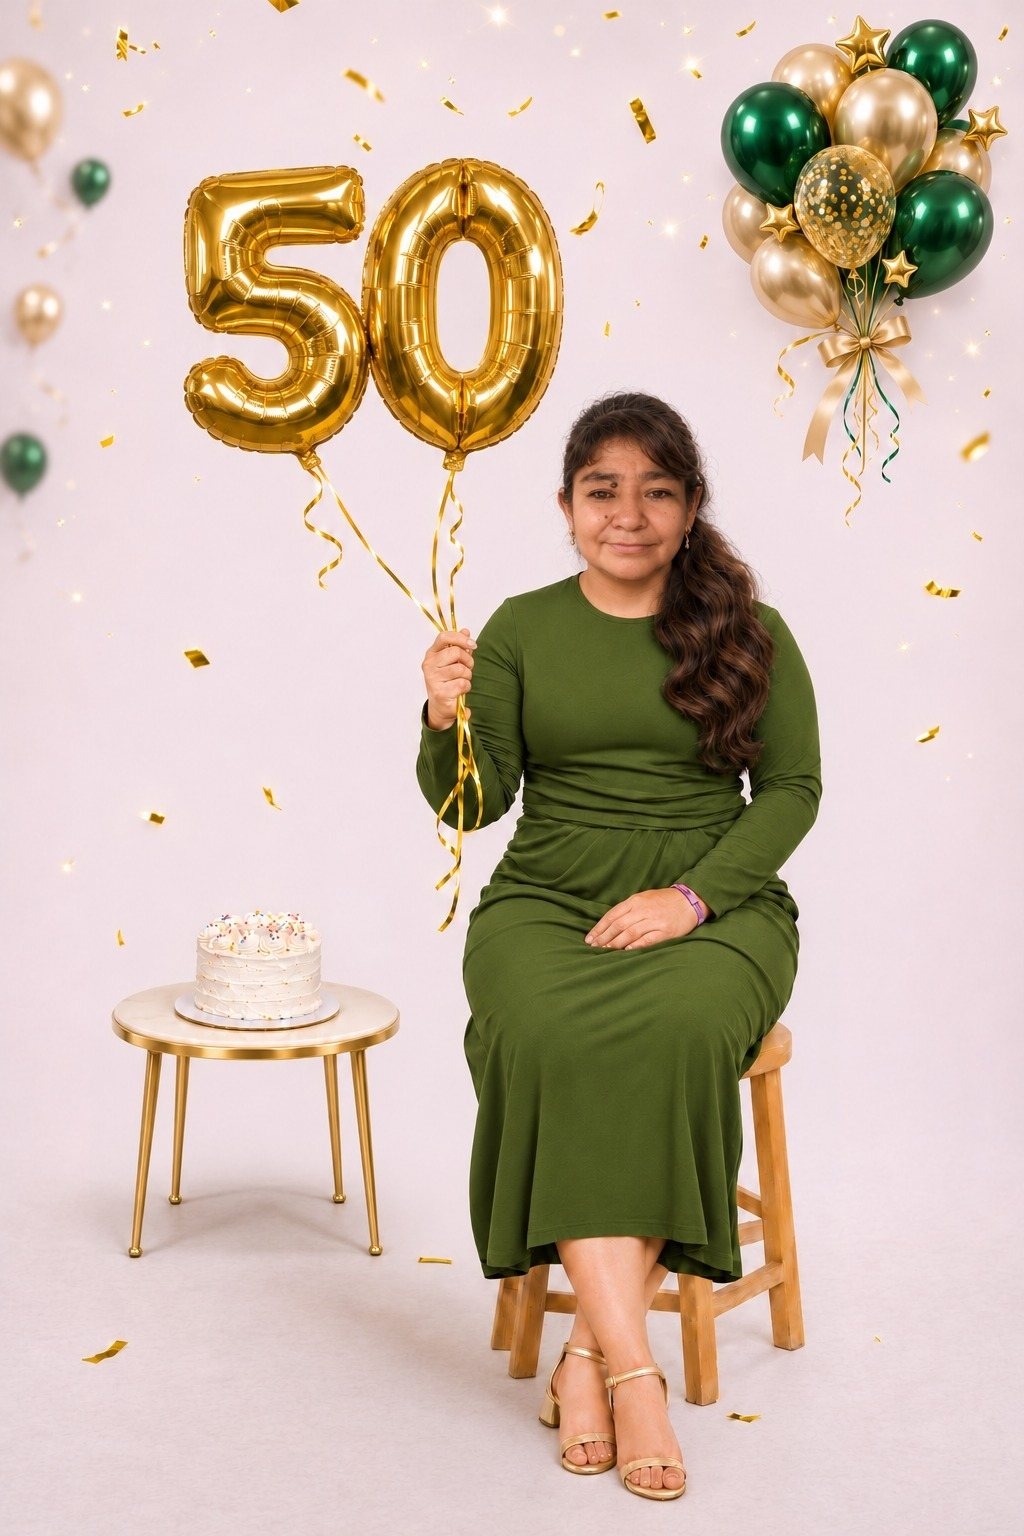
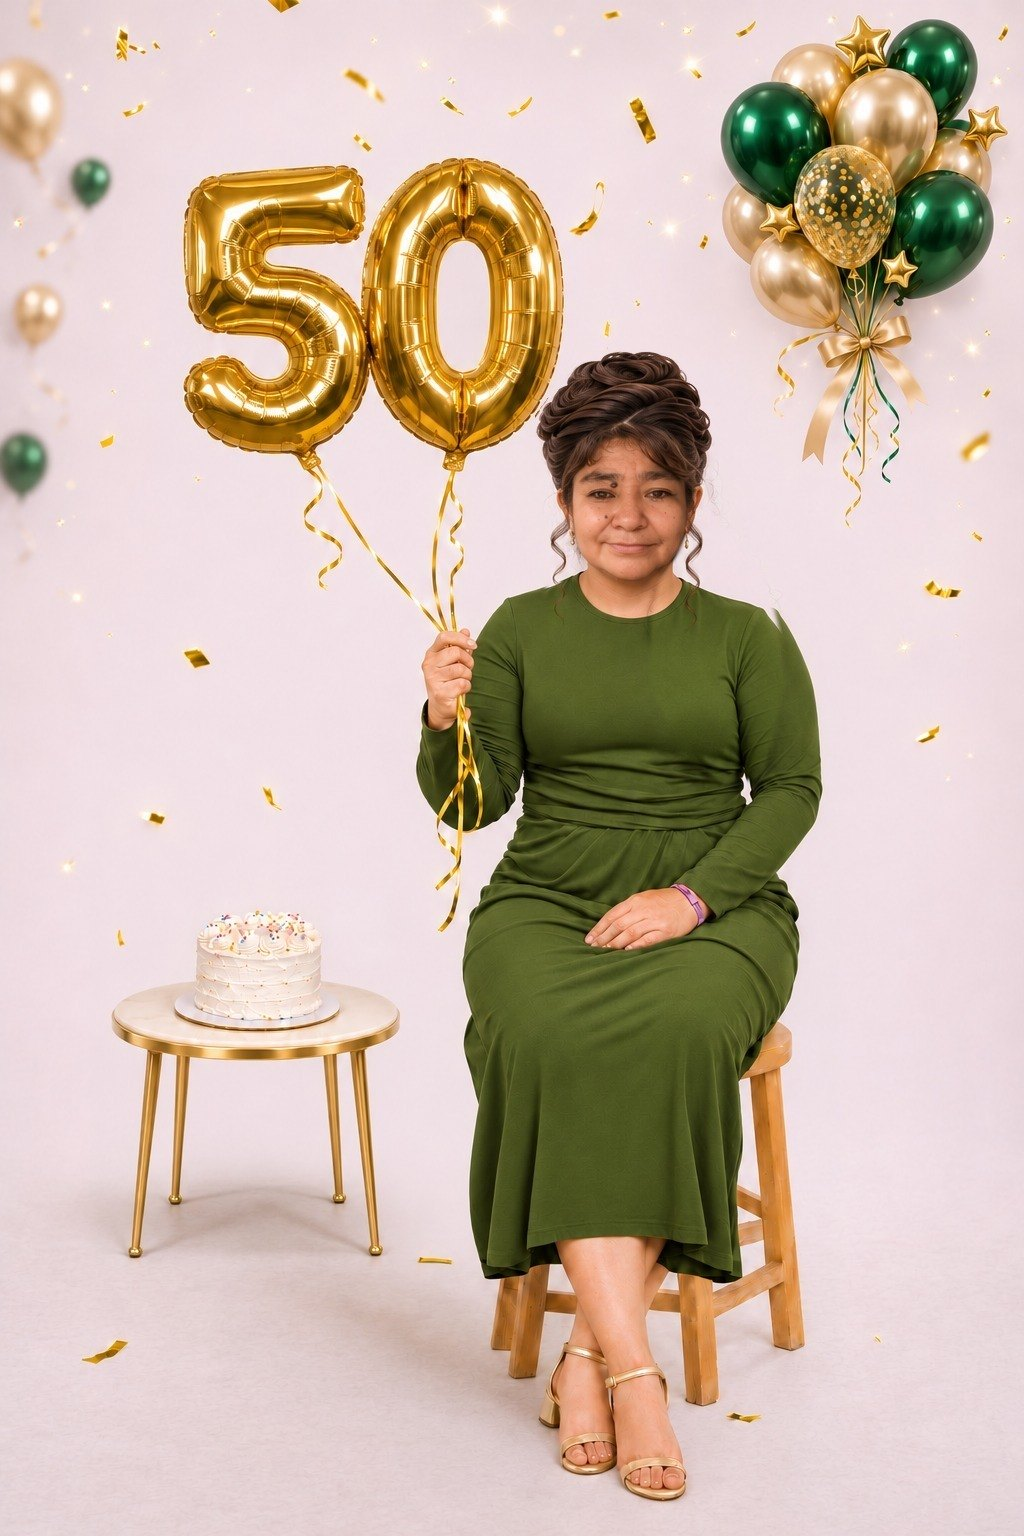
Nueva foto de portada

Changed region(s): [[0.5, 0.2188, 0.7812, 0.5312]]

diff --git a/web/index.html b/web/index.html
@@ -35,13 +35,13 @@ input,textarea,button{font-family:'Cormorant Garamond',Georgia,serif}
 @supports (animation-timeline:view()){.revela,.rev-izq,.rev-der,.rev-zoom,.rev-fade{animation:aparecer linear both;animation-timeline:view();animation-range:entry 0% cover 30%}.rev-izq{animation-name:izq}.rev-der{animation-name:der}.rev-zoom{animation-name:zoom}.rev-fade{animation-name:fundido}}
 nav a{color:#3F5226;text-decoration:none}
 .lino-oscuro{background-color:#56663D;background-image:url(/a/86ca6db8fe728776d4360789e4caac66.jpg?v=b0bd263b);background-size:320px 320px;background-blend-mode:multiply}
-.lino{background-color:#E4EBD6;background-image:url(/a/86ca6db8fe728776d4360789e4caac66.jpg?v=b0bd263b);background-size:320px 320px}.foto-arco{background:#EDE4E8 url(/a/5a4fbaf4dd6b78b2e6eda0e233e9d879.jpg?v=981253dc) 70% 0/cover no-repeat}.velo-lino{background:radial-gradient(ellipse 75% 60% at 50% 45%, rgba(228,235,214,0) 55%, rgba(110,125,67,0.28) 100%), linear-gradient(180deg, rgba(214,226,190,0.18), rgba(214,226,190,0) 40%, rgba(63,82,38,0.12)), url(/a/86ca6db8fe728776d4360789e4caac66.jpg?v=b0bd263b);background-size:auto, auto, 320px 320px;mix-blend-mode:multiply;opacity:.9}.bp{transform-box:fill-box;transform-origin:50% 50%}.carta-espera .bp{opacity:0}.carta-entra .bp{animation:florBrota .9s cubic-bezier(.3,1.5,.5,1) both}@media (prefers-reduced-motion:reduce){.carta-entra .bp{animation:none}}
+.lino{background-color:#E4EBD6;background-image:url(/a/86ca6db8fe728776d4360789e4caac66.jpg?v=b0bd263b);background-size:320px 320px}.foto-arco{background:#EDE4E8 url(/a/5a4fbaf4dd6b78b2e6eda0e233e9d879.jpg?v=4c55bd5e) 70% 0/cover no-repeat}.velo-lino{background:radial-gradient(ellipse 75% 60% at 50% 45%, rgba(228,235,214,0) 55%, rgba(110,125,67,0.28) 100%), linear-gradient(180deg, rgba(214,226,190,0.18), rgba(214,226,190,0) 40%, rgba(63,82,38,0.12)), url(/a/86ca6db8fe728776d4360789e4caac66.jpg?v=b0bd263b);background-size:auto, auto, 320px 320px;mix-blend-mode:multiply;opacity:.9}.bp{transform-box:fill-box;transform-origin:50% 50%}.carta-espera .bp{opacity:0}.carta-entra .bp{animation:florBrota .9s cubic-bezier(.3,1.5,.5,1) both}@media (prefers-reduced-motion:reduce){.carta-entra .bp{animation:none}}
 .aguarda.final:not(.visto) .fin-adorno,.aguarda.final:not(.visto) .fin-texto,.aguarda.final:not(.visto) .fin-firma{opacity:0}.visto .fin-adorno{animation:finAdorno 1.2s cubic-bezier(.2,.8,.2,1) both}.visto .fin-texto{animation:finEscribe 2.4s ease-in-out .8s both}.visto .fin-firma{animation:finFirma 1.2s ease 3s both}@keyframes finAdorno{0%{opacity:0;transform:scaleX(0)}60%{opacity:1}100%{opacity:1;transform:none}}@keyframes finEscribe{0%{opacity:1;clip-path:inset(-30% 100% -30% -5%)}100%{opacity:1;clip-path:inset(-30% -5% -30% -5%)}}@keyframes finFirma{0%{opacity:0;letter-spacing:0px;transform:translateY(8px)}100%{opacity:1;letter-spacing:3px;transform:none}}
-.fx-retrato-1{background:#E2EBD1 url(/a/5a4fbaf4dd6b78b2e6eda0e233e9d879.jpg?v=981253dc) 62% 30%/cover no-repeat}.fx-retrato-2{background:#E2EBD1 url(/a/46a35271e1f8f4635ab8116474f4c852.jpg?v=594c8c74) 50% 55%/cover no-repeat}.fx-fiestas-1{background:#E2EBD1 url(/a/2ff35ff0b052922acf2b713d649677f9.jpg?v=2603985a) 40% 60%/cover no-repeat}.fx-fiestas-2{background:#E2EBD1 url(/a/ff19bab2dead28219ffa426869fc8c3f.jpg?v=9d9b80e8) 62% 35%/cover no-repeat}.fx-paseos-1{background:#E2EBD1 url(/a/8bb4ffcb68ecab3eef8ad752dfeda33f.jpg?v=12c1ada5) 45% 45%/cover no-repeat}.fx-paseos-2{background:#E2EBD1 url(/a/4cea7a499eb1de9508cb81ac883d3650.jpg?v=75e8a4cc) 50% 50%/cover no-repeat}.fx-familia-1{background:#E2EBD1 url(/a/14ddda6ddf706641b2d74b41ed4114e3.jpg?v=0ac4fea0) 50% 45%/cover no-repeat}.fx-familia-2{background:#E2EBD1 url(/a/8dcd2b1b9bbca58d64b64d08a1f6bc49.jpg?v=5ff40ac6) 55% 50%/cover no-repeat}.fx-hoy-1{background:#E2EBD1 url(/a/57852b1e024459e83e522314bd49c412.jpg?v=6d905cd3) 55% 30%/cover no-repeat}.fx-hoy-2{background:#E2EBD1 url(/a/d4f144a312145dab0865a553e8d03b00.jpg?v=ef53e685) 55% 30%/cover no-repeat}.carrusel::-webkit-scrollbar{display:none}
+.fx-retrato-1{background:#E2EBD1 url(/a/5a4fbaf4dd6b78b2e6eda0e233e9d879.jpg?v=4c55bd5e) 62% 30%/cover no-repeat}.fx-retrato-2{background:#E2EBD1 url(/a/46a35271e1f8f4635ab8116474f4c852.jpg?v=594c8c74) 50% 55%/cover no-repeat}.fx-fiestas-1{background:#E2EBD1 url(/a/2ff35ff0b052922acf2b713d649677f9.jpg?v=2603985a) 40% 60%/cover no-repeat}.fx-fiestas-2{background:#E2EBD1 url(/a/ff19bab2dead28219ffa426869fc8c3f.jpg?v=9d9b80e8) 62% 35%/cover no-repeat}.fx-paseos-1{background:#E2EBD1 url(/a/8bb4ffcb68ecab3eef8ad752dfeda33f.jpg?v=12c1ada5) 45% 45%/cover no-repeat}.fx-paseos-2{background:#E2EBD1 url(/a/4cea7a499eb1de9508cb81ac883d3650.jpg?v=75e8a4cc) 50% 50%/cover no-repeat}.fx-familia-1{background:#E2EBD1 url(/a/14ddda6ddf706641b2d74b41ed4114e3.jpg?v=0ac4fea0) 50% 45%/cover no-repeat}.fx-familia-2{background:#E2EBD1 url(/a/8dcd2b1b9bbca58d64b64d08a1f6bc49.jpg?v=5ff40ac6) 55% 50%/cover no-repeat}.fx-hoy-1{background:#E2EBD1 url(/a/57852b1e024459e83e522314bd49c412.jpg?v=6d905cd3) 55% 30%/cover no-repeat}.fx-hoy-2{background:#E2EBD1 url(/a/d4f144a312145dab0865a553e8d03b00.jpg?v=ef53e685) 55% 30%/cover no-repeat}.carrusel::-webkit-scrollbar{display:none}
 
 .flor-p,.hoja-p,.perla-p{transform-box:fill-box;transform-origin:50% 50%}.flor-p{animation:florBrota 1s cubic-bezier(.3,1.5,.5,1) both}.hoja-p{animation:hojaBrota .9s cubic-bezier(.3,1.4,.5,1) both}.perla-p{animation:perla .5s cubic-bezier(.3,1.6,.5,1) both}@keyframes florBrota{0%{opacity:0;transform:scale(0) rotate(-60deg)}45%{opacity:1}100%{opacity:1;transform:none}}@keyframes hojaBrota{0%{opacity:0;transform:scale(0) rotate(25deg)}50%{opacity:1}100%{opacity:1;transform:none}}@media (prefers-reduced-motion:reduce){.flor-p,.hoja-p,.perla-p{animation:none}}
 .cortina{transform-box:fill-box;transform-origin:0% 50%;transform:scaleX(.8)}.carta-espera .cortina{transform:scaleX(1.24)}.carta-entra .cortina{animation:abrirCortina 2.4s cubic-bezier(.55,0,.2,1) 3.3s both}@keyframes abrirCortina{0%{transform:scaleX(1.24)}72%{transform:scaleX(.76)}86%{transform:scaleX(.83)}100%{transform:scaleX(.8)}}@media (prefers-reduced-motion:reduce){.carta-entra .cortina{animation:none}}
-.foto-portada{background:#3B4A27 url(/a/5a4fbaf4dd6b78b2e6eda0e233e9d879.jpg?v=981253dc) 20% 0/cover no-repeat}
+.foto-portada{background:#3B4A27 url(/a/5a4fbaf4dd6b78b2e6eda0e233e9d879.jpg?v=4c55bd5e) 20% 0/cover no-repeat}
 .aguarda.flores:not(.visto) .brota,.aguarda.flores:not(.visto) .brota-perla{opacity:0}.brota,.brota-perla{transform-box:fill-box;transform-origin:50% 60%}.visto .brota{animation:brote .9s cubic-bezier(.3,1.4,.5,1) both}.visto .brota-perla{animation:perla .5s cubic-bezier(.3,1.6,.5,1) both}@keyframes brote{0%{opacity:0;transform:scale(0) rotate(-40deg)}40%{opacity:1}100%{opacity:1;transform:none}}@keyframes perla{0%{opacity:0;transform:scale(0)}100%{opacity:1;transform:none}}.letras .pal{display:inline-block;white-space:nowrap}.letras .pal span{display:inline-block}.aguarda.letras:not(.visto) .pal span{opacity:0}.visto.letras .pal span{animation:pluma .5s ease-out both}@keyframes pluma{0%{opacity:0;filter:blur(3px);transform:translateY(-5px)}100%{opacity:1;filter:none;transform:none}}.aguarda.tras-verso:not(.visto){opacity:0}.visto.tras-verso{animation:fundido 1s ease both}.aguarda.sello:not(.visto) .cera,.onda{opacity:0}.cera,.onda{transform-box:fill-box;transform-origin:50% 50%}.visto.sello .cera{animation:selloCae .8s cubic-bezier(.5,0,.6,1.3) .2s both}.visto.sello .onda{animation:onda .9s ease-out .62s both}.visto.sello .onda2{animation-delay:.78s}@keyframes selloCae{0%{opacity:0;transform:scale(2.6) rotate(-24deg)}55%{opacity:1;transform:scale(.88) rotate(4deg)}75%{transform:scale(1.06) rotate(-1deg)}100%{opacity:1;transform:none}}@keyframes onda{0%{opacity:.8;transform:scale(.85)}100%{opacity:0;transform:scale(1.7)}}.tz-linea{stroke-dasharray:1;stroke-dashoffset:0;opacity:0}.aguarda.traza:not(.visto) .tz-relleno,.aguarda.traza:not(.visto) .tz-perlas,.aguarda.traza:not(.visto) .tz-flores,.aguarda.traza:not(.visto) .tz-placa{opacity:0}.visto .tz-linea{animation:trazo 2.8s ease-in-out both}.visto .tz-relleno{animation:fundido 1s ease 1.5s both}.visto .tz-perlas{animation:fundido .8s ease 2.1s both}.visto .tz-flores{animation:fundido .9s ease 2.4s both}.visto .tz-placa{animation:fundido .8s ease 2.7s both}@keyframes trazo{0%{stroke-dashoffset:1;opacity:1}58%{stroke-dashoffset:0;opacity:1}100%{stroke-dashoffset:0;opacity:0}}@media (prefers-reduced-motion:reduce){.aguarda *,.aguarda{animation:none!important;opacity:1!important}.aguarda .tz-linea,.aguarda .onda{opacity:0!important}}
 .sb-tras,.sb-frente,.sb-sello{transform-box:view-box}.sb-tras,.sb-frente{transform-origin:130px 64px}.sb-sello{transform-origin:130px 142px}.sb-espera .sb-tras{transform:scaleY(0)}.sb-espera .sb-carta{transform:translateY(96px)}.sb-abre .sb-sello{animation:sbSello .45s ease-in-out both}.sb-abre .sb-frente{animation:sbFrente .4s cubic-bezier(.5,0,.9,.4) .35s both}.sb-abre .sb-tras{animation:sbTras .45s cubic-bezier(.1,.6,.4,1) .75s both}.sb-abre .sb-carta{animation:sbSube 1.6s cubic-bezier(.22,.8,.25,1) 1.05s both,sbFlota 4.5s ease-in-out 2.8s infinite}@keyframes sbSello{50%{transform:scale(1.14)}}@keyframes sbFrente{from{transform:scaleY(1)}to{transform:scaleY(0)}}@keyframes sbTras{from{transform:scaleY(0)}to{transform:scaleY(1)}}@keyframes sbSube{0%{transform:translateY(96px)}62%{transform:translateY(-14px)}100%{transform:translateY(0)}}@keyframes sbFlota{50%{transform:translateY(-4px)}}.sb-listo .sb-frente{display:none}@media (prefers-reduced-motion:reduce){.sb-abre .sb-sello,.sb-abre .sb-tras,.sb-abre .sb-carta{animation:none}.sb-abre .sb-frente{display:none}}
 </style>
